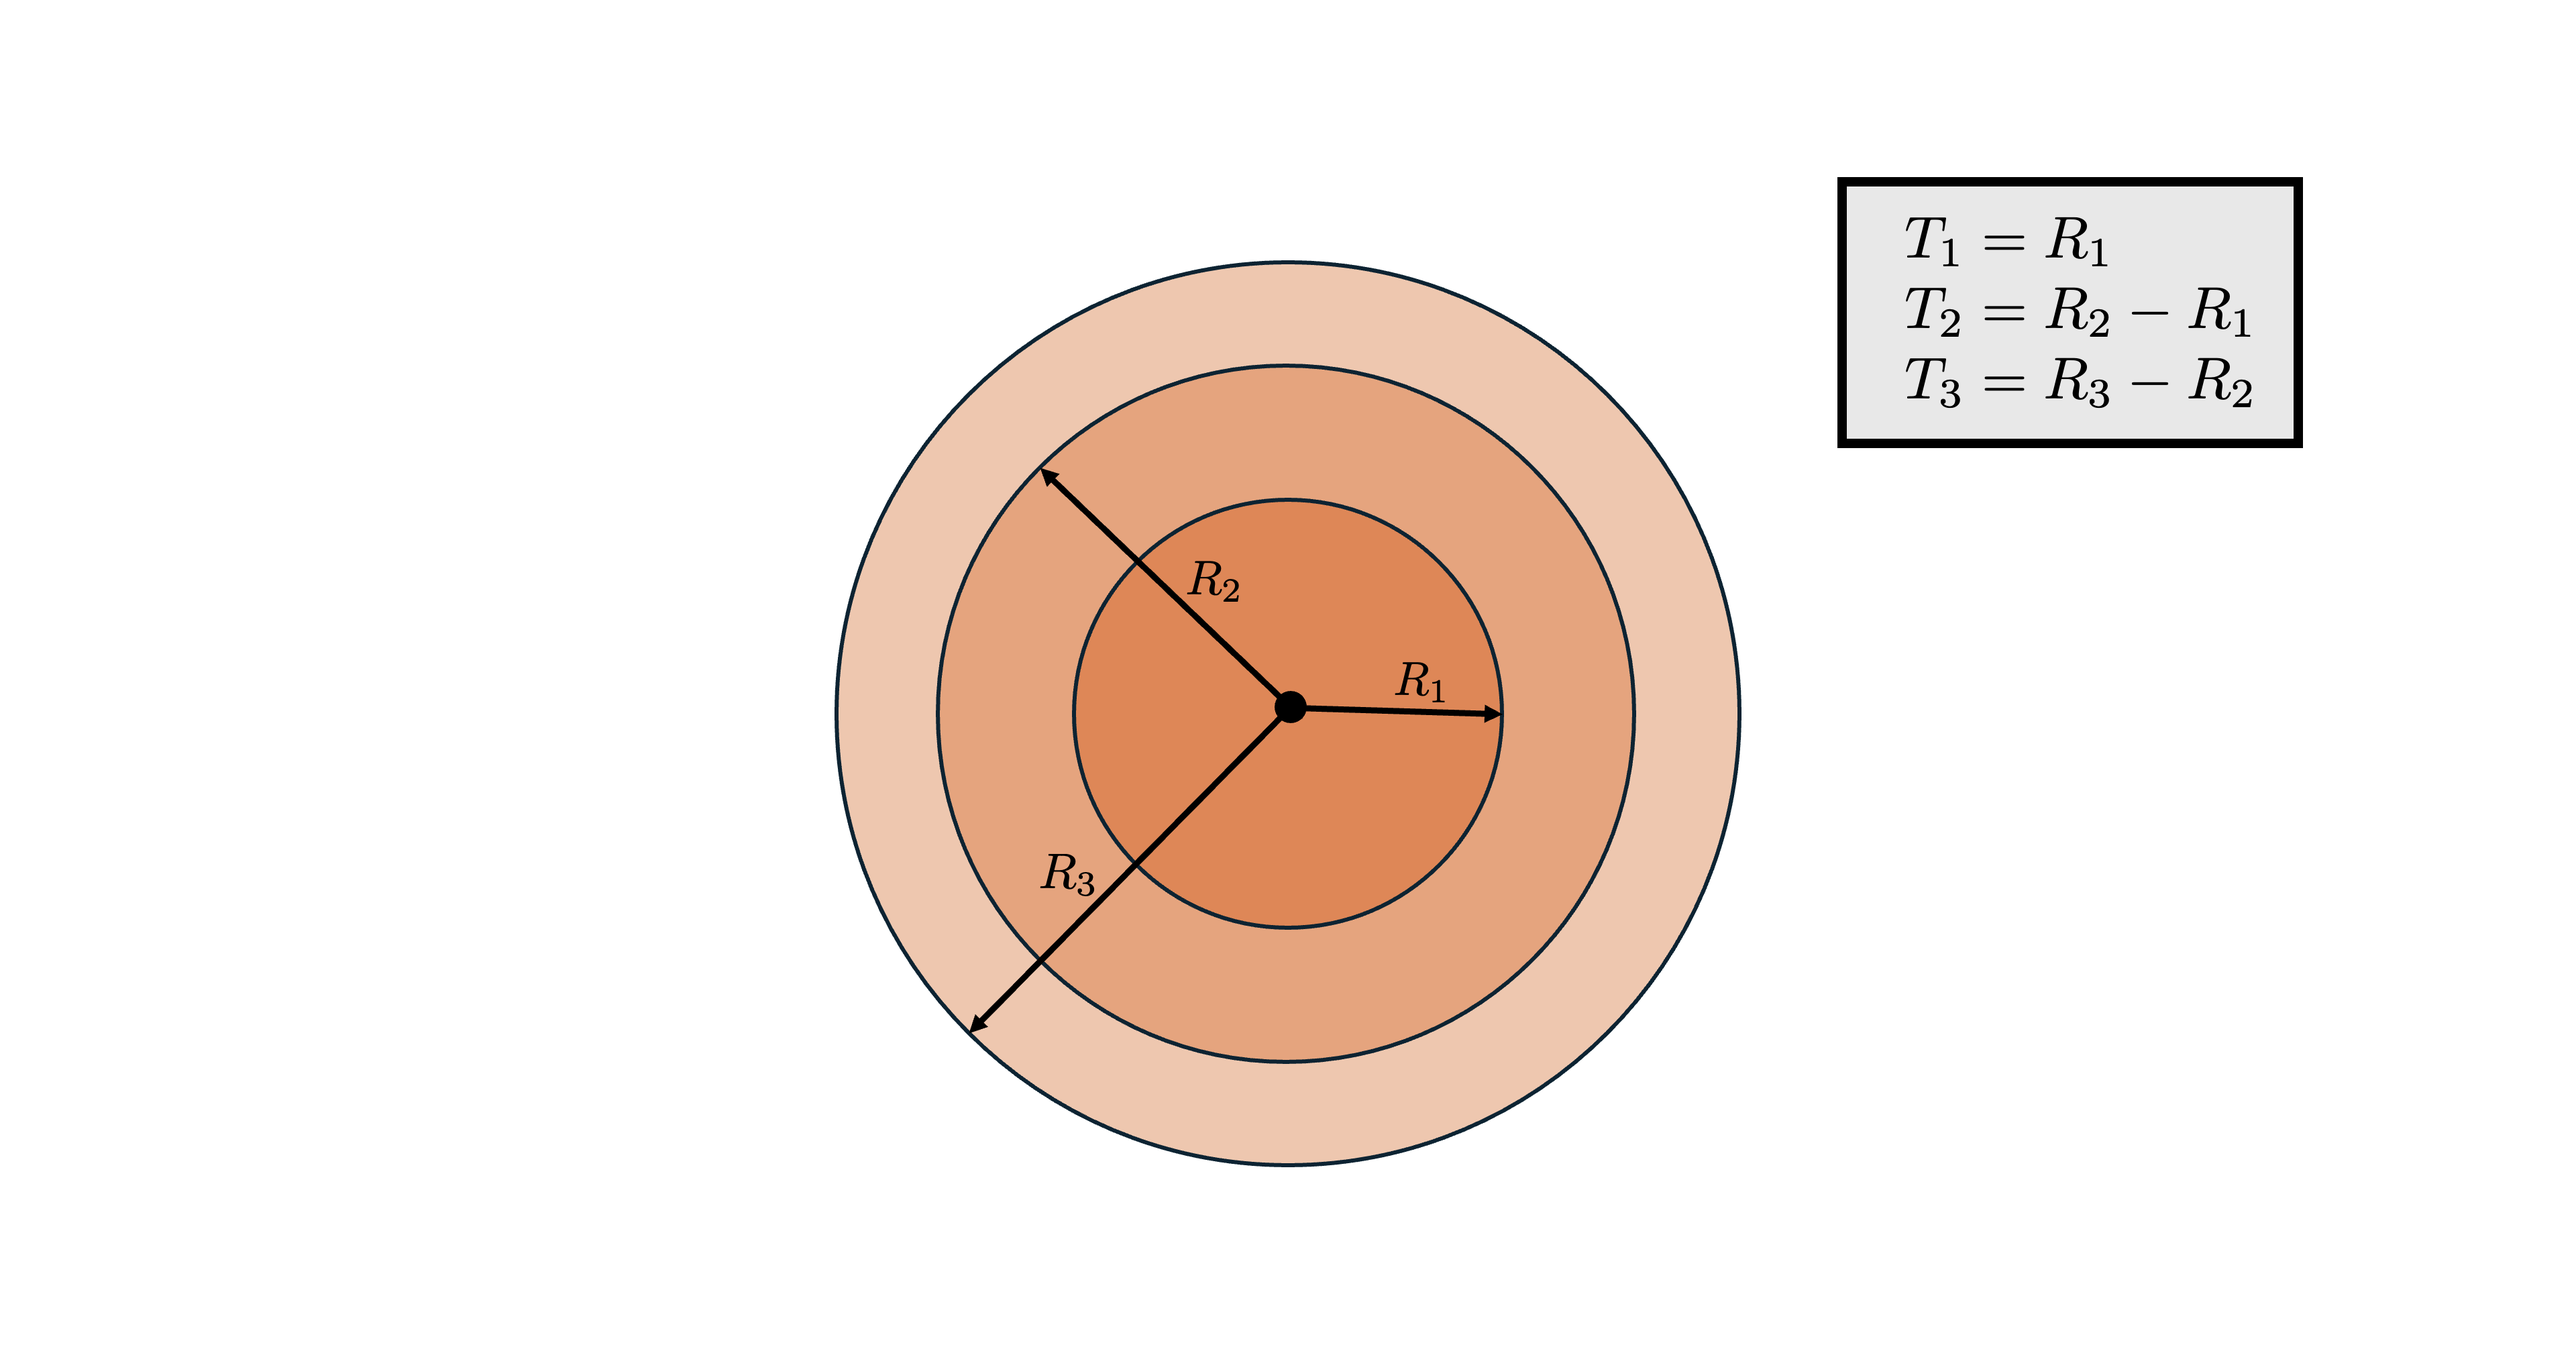
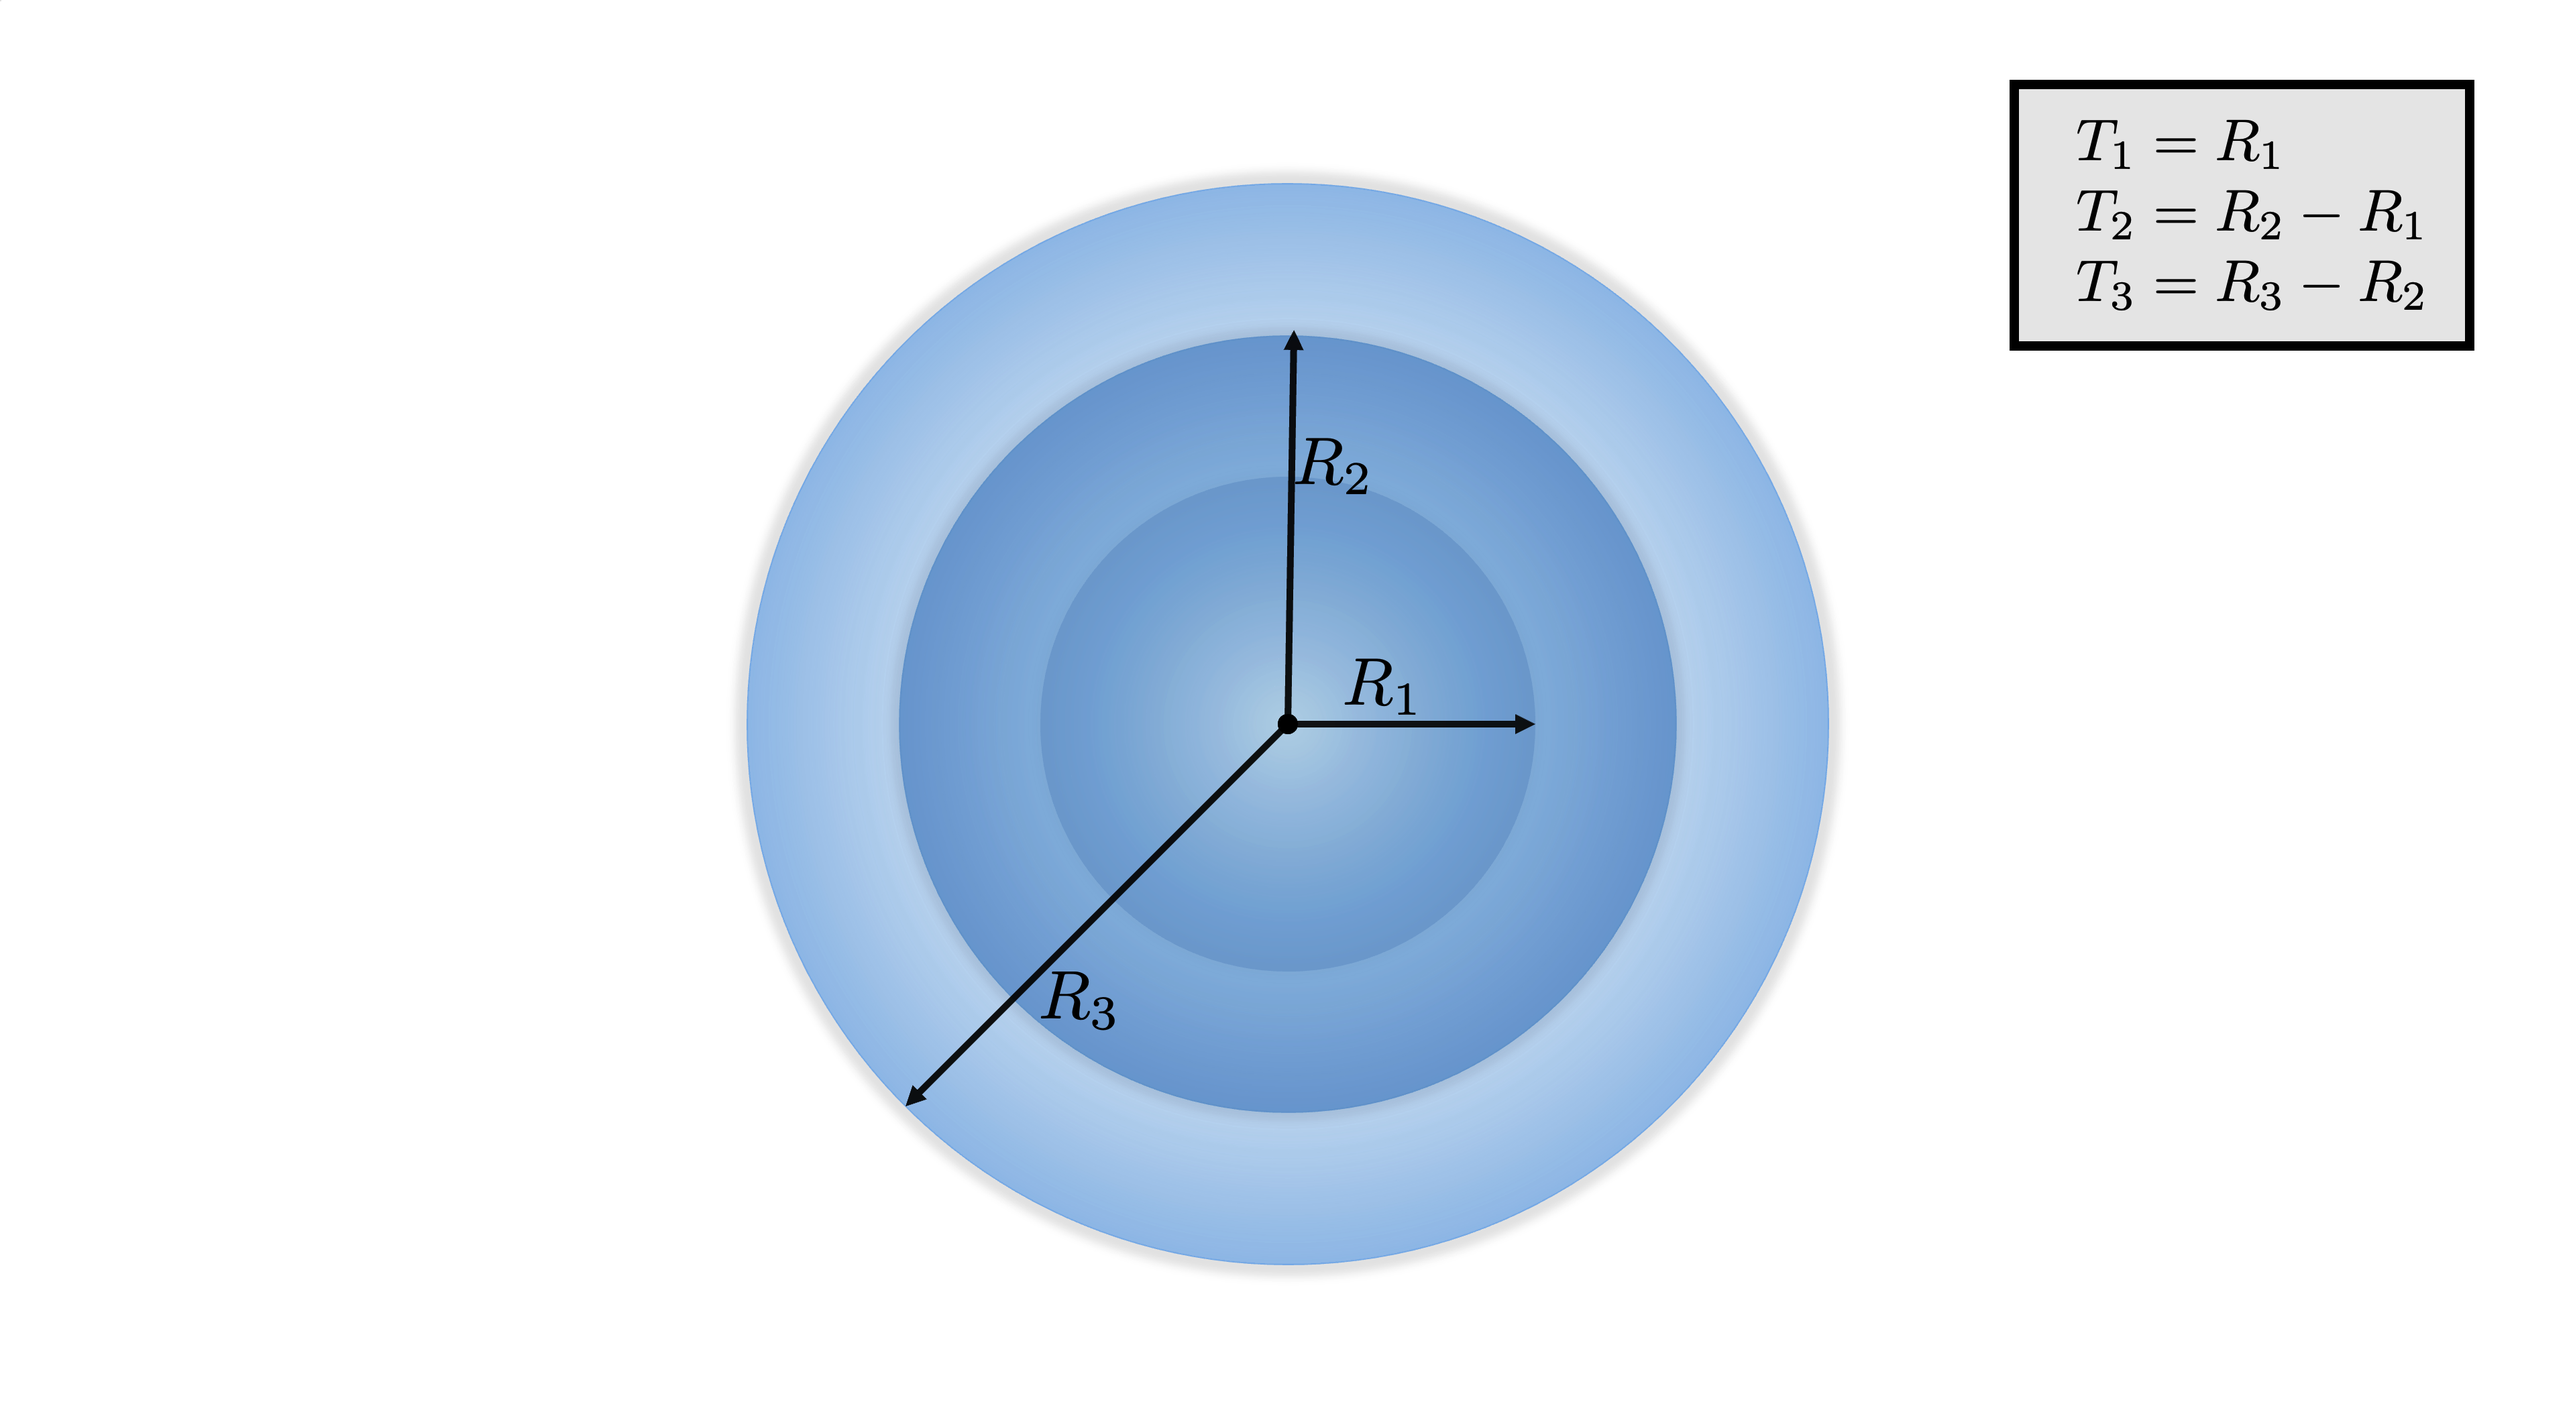
docs: add schematics

Changed region(s): [[0.2792, 0.0309, 0.9617, 0.9263]]

diff --git a/docs/onion.rst b/docs/onion.rst
@@ -8,7 +8,7 @@ This structure is generated using :ref:`the Onion class <onion-class>`
 Structural features
 ----------------------
 1. :math:`\mathbf{T}` is an vector which contains the thickness 
-   (:math:`r_{outer}- r_{inner}`) of each shell, starting from the core. 
+   (:math:`r_\text{outer}- r_\text{inner}`) of each shell, starting from the core. 
    The core's thickness is its radius (see schematic below). 
 2. :math:`\mathbf{d}` is an vector which contains each shell's density of scatters. 
    Each density is represented in scatters (points) per unit volume.
@@ -24,11 +24,11 @@ Generation
 
 We use a similar :ref:`method<uni-sphere>` employed with the uniform sphere, but rather for each shell.
 
-For each :math:`t_i \in \mathbf{T}`, the inner radius is :math:`r_{inner, i} = \sum_{n=0}^{i} t_n` (the sum of all previous thicknesses) 
-while the outer radius is :math:`r_{outer, i} = r_{inner, i} + t_i`. The inner radius of the core is :math:`0`, which is why the thickness
+For each :math:`t_i \in \mathbf{T}`, the inner radius is :math:`r_{\text{inner}, i} = \sum_{n=0}^{i} t_n` (the sum of all previous thicknesses) 
+while the outer radius is :math:`r_{\text{outer}, i} = r_{\text{inner}, i} + t_i`. The inner radius of the core is :math:`0`, which is why the thickness
 is just the radius of the core.
 
-Now, generate a uniform box :math:`U_{box, i}` inside the bounded box surrounding the current shell :math:`i`, :math:`[-r_{outer, i}, r_{outer, i}]^3`, 
+Now, generate a uniform box :math:`U_{box, i}` inside the bounded box surrounding the current shell :math:`i`, :math:`[-r_{\text{outer}, i}, r_{\text{outer}, i}]^3`, 
 with density :math:`d_i \in \mathbf{d}`. Similar to the :ref:`sphere <uni-sphere>`, :math:`N = t_i d_i`
 
 Instead of keeping each point :math:`\mathbf{v} \in \mathbb{R}^3` inside :math:`U_{box, i}` with the :ref:`previous method <uni-sphere>`, 

diff --git a/docs/patchy_onion.rst b/docs/patchy_onion.rst
@@ -14,9 +14,9 @@ Structural features
 
 Schematic
 -----------
-.. .. figure:: 
-..  
-..    The design of a patchy onion, with one patch labeled
+.. figure:: images/onion_with_patch.png
+ 
+   The design of a patchy onion, with one patch labeled
 
 There are two components to the structure: the onion and the patches.
 
